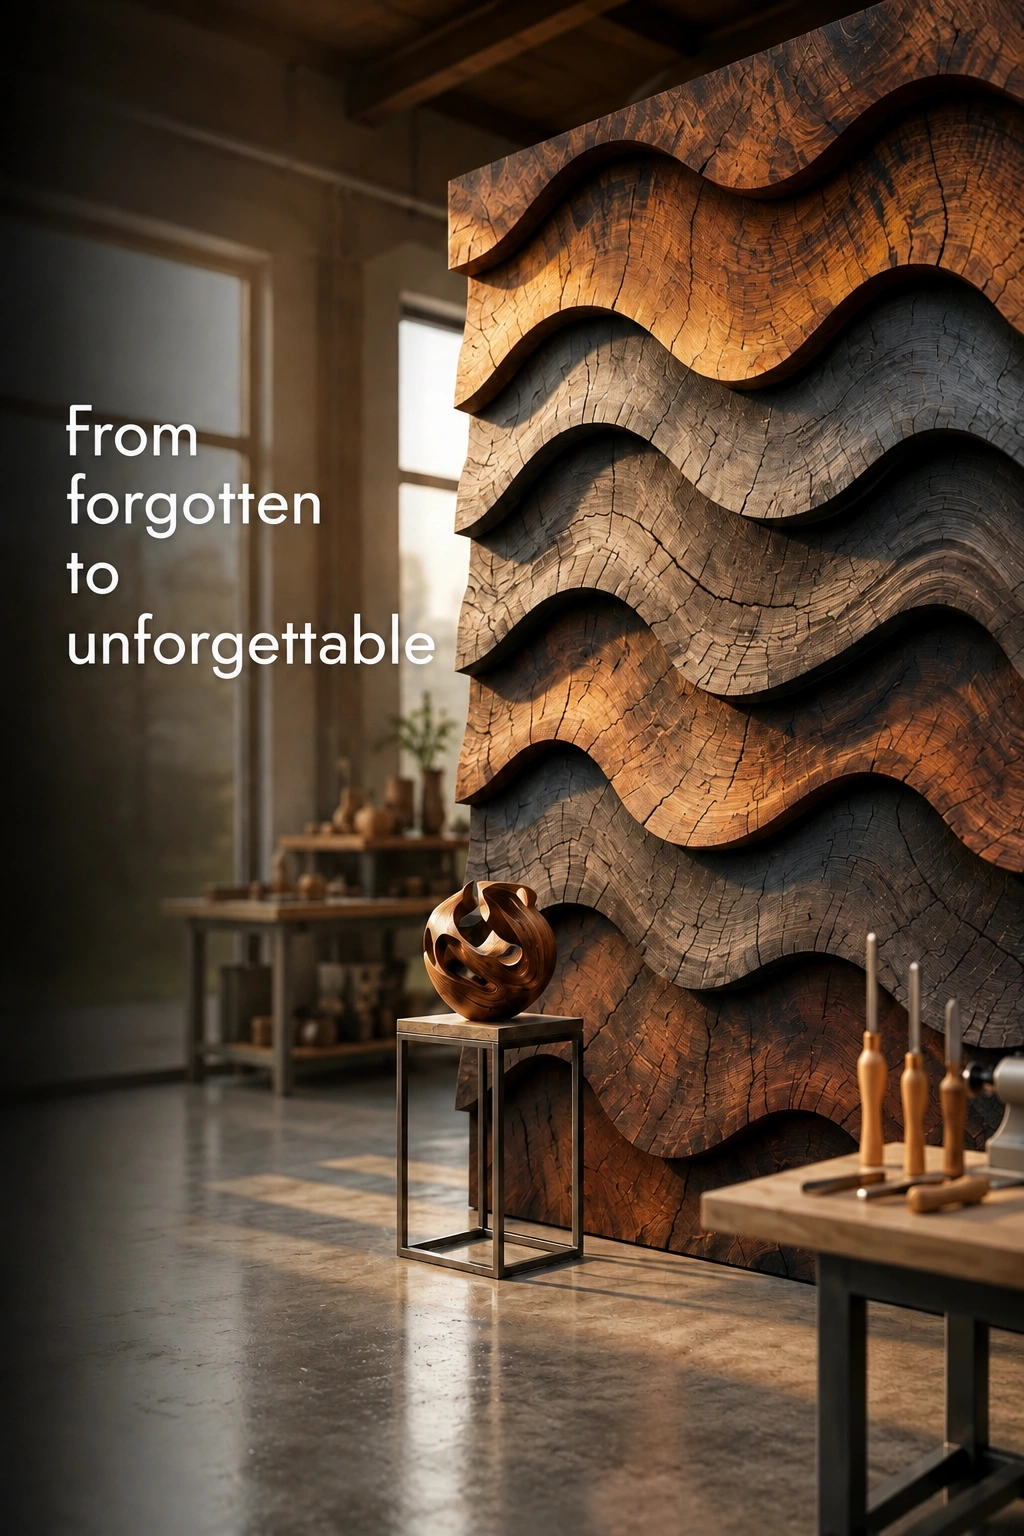
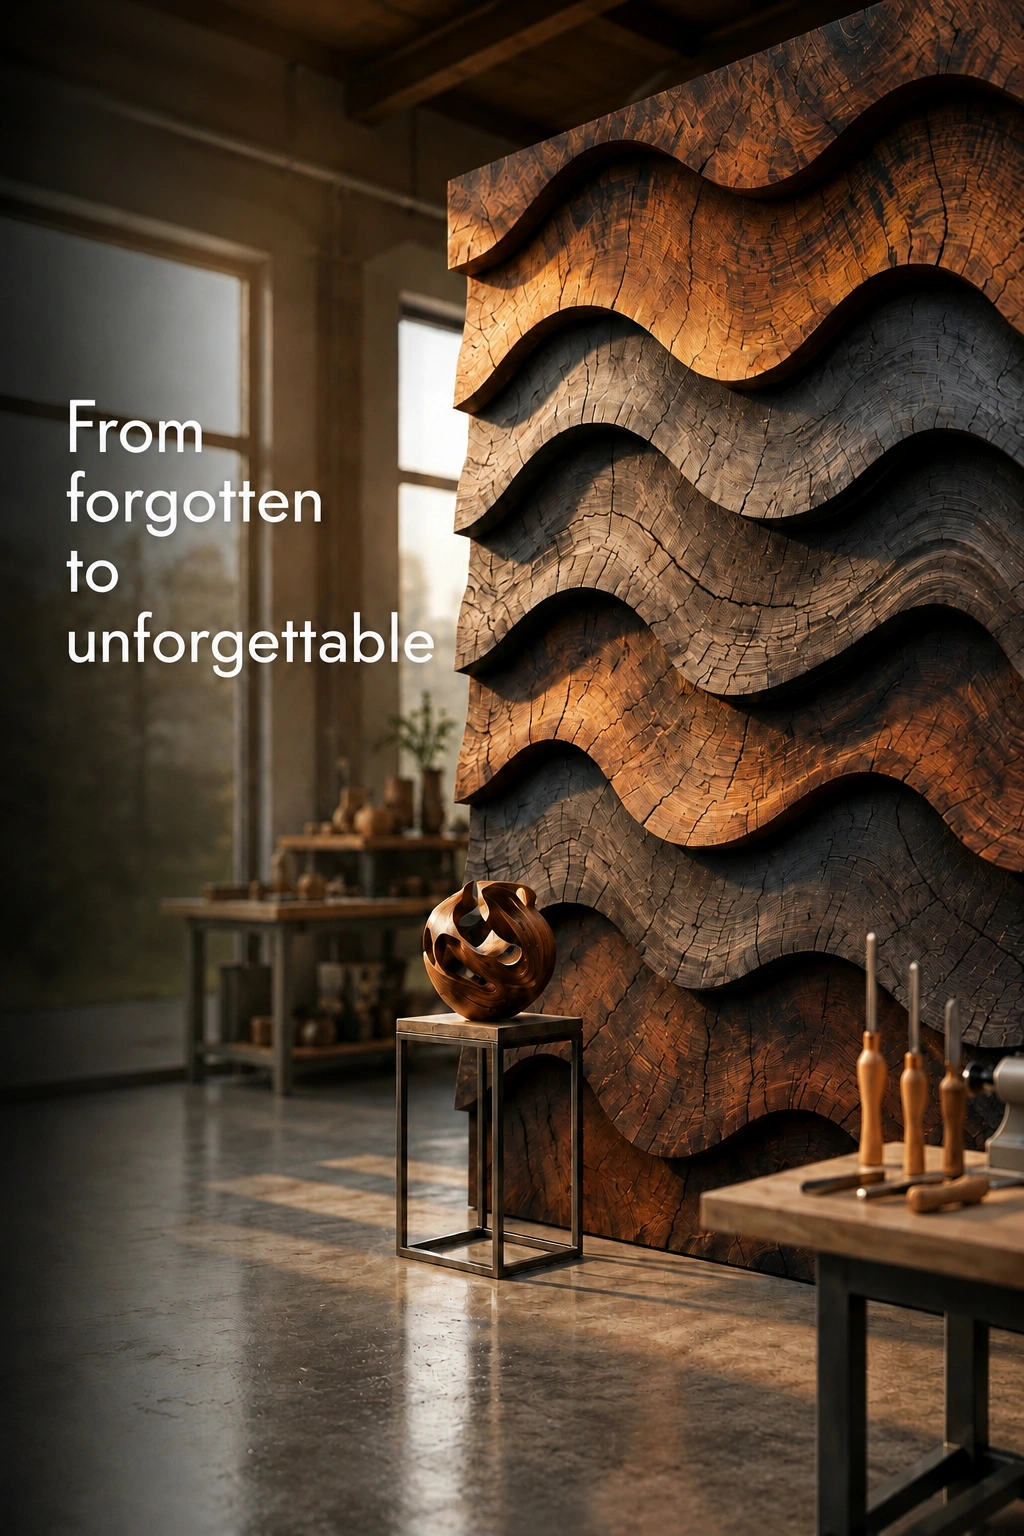
Update authentication UI and responsive design

diff --git a/src/Data/collections.ts b/src/Data/collections.ts
@@ -1,38 +1,45 @@
+import nature from "../assets/nature/02.webp";
+import humanFigure from "../assets/humanfigure/03.webp";
+import abstract from "../assets/abstract/07.webp";
+import historical from "../assets/historical/01.webp";
+import spiritual from "../assets/spiritual/09.webp";
+import wallArt from "../assets/wall-art/wall15.webp";
+
 export const collections = [
   {
     id: "01",
     title: "Nature Paintings",
-    image: "/src/assets/nature/02.webp",
+    image: nature,
     slug: "/collections/nature",
   },
   {
     id: "02",
     title: "Human Figure Paintings",
-    image: "/src/assets/humanfigure/03.webp",
+    image: humanFigure,
     slug: "/collections/human-figure",
   },
   {
     id: "03",
     title: "Abstract Paintings",
-    image: "/src/assets/abstract/07.webp",
+    image: abstract,
     slug: "/collections/abstract",
   },
   {
     id: "04",
     title: "Historical Paintings",
-    image: "/src/assets/historical/01.webp",
+    image: historical,
     slug: "/collections/historical",
   },
   {
     id: "05",
     title: "Spiritual Paintings",
-    image: "/src/assets/spiritual/09.webp",
+    image: spiritual,
     slug: "/collections/spiritual",
   },
   {
     id: "06",
     title: "Wall Arts",
-    image: "/src/assets/wall-art/wall15.webp",
+    image: wallArt,
     slug: "/collections/wallart",
   },
 ];

diff --git a/src/components/auth/AccountModal.tsx b/src/components/auth/AccountModal.tsx
@@ -41,7 +41,7 @@ export default function AccountModal({ open, onClose }: AccountModalProps) {
     <AnimatePresence>
       {open && (
         <motion.div
-          className="fixed inset-0 z-[9999] flex items-center justify-center bg-black/40 backdrop-blur-sm p-4"
+         className="fixed inset-0 z-[9999] flex items-center justify-center bg-black/40 backdrop-blur-sm p-3 sm:p-4"
           onClick={onClose}
           initial={{ opacity: 0 }}
           animate={{ opacity: 1 }}
@@ -68,7 +68,7 @@ export default function AccountModal({ open, onClose }: AccountModalProps) {
               duration: 0.3,
               ease: "easeOut",
             }}
-            className="relative w-full  max-w-md rounded-3xl bg-[#FDFBF7] p-8 shadow-2xl"
+          className="relative w-[95vw] sm:w-full sm:max-w-md max-h-[90vh] overflow-y-auto rounded-3xl bg-[#FDFBF7] p-5 sm:p-8 shadow-2xl"
           >
             <AuthHeader
               title="Welcome Back"
